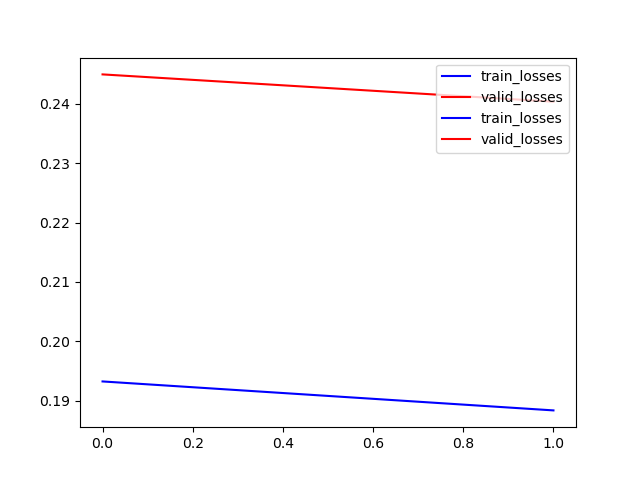
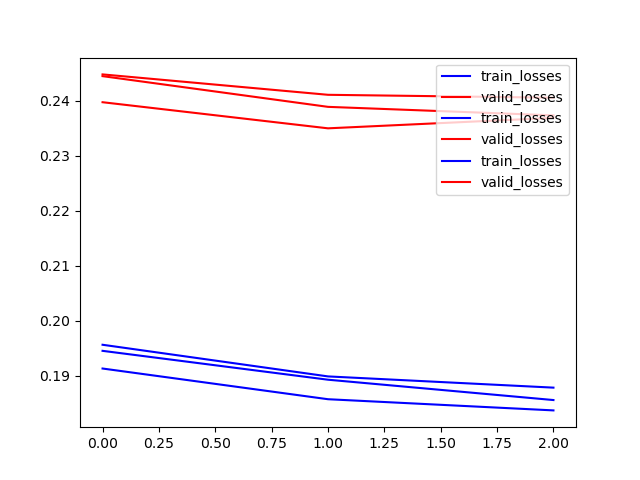
Plot 10 fold train val

diff --git a/src/trainer.py b/src/trainer.py
@@ -1,4 +1,6 @@
-import os		# Thư viện làm việc với đường dẫn và file trong python
+import os
+import matplotlib		# Thư viện làm việc với đường dẫn và file trong python
+matplotlib.use('AGG')
 import torch as T
 import numpy as np
 from torch.autograd import Variable		# Hàm khai báo các biến tensor và có thể thay đổi gradient của nó
@@ -10,7 +12,7 @@ from src.data_helper import shuffle_data
 class Trainer:
     def __init__(self, model, loss, optimizer, train_loader=None, test_loader=None, fold=1,
                  device=T.device("cuda" if T.cuda.is_available() else "cpu"), lr=0.0005, epochs=200, batch_size=64,
-                 n_repeats = 2, print_every=1, save_every=500, 
+                 n_repeats = 2, print_every=1, save_every=500,
                  save_dir="./trainned_models",
                  save_name="model.pt", verbose=True):
         self.model = model
@@ -83,19 +85,20 @@ class Trainer:
             print('Train_loss: ',losses)
             self.train_losses.append(losses)
             self.valid_losses.append(valid_loss)
-            self.save_train_valid_losses()
+            self.save_train_valid_losses(self.fold)
 
     def load_model_from_path(self, path):
         self.model.load_state_dict(T.load(path))
     
-    def save_train_losses(self):
+    def save_train_losses(self,i):
         plt.plot(self.train_losses) 
         out_dir = 'output/train_losses'
         if not os.path.exists(out_dir):
             os.makedirs(out_dir)
-        plt.savefig("{}/{}_{}".format(out_dir, self.model.name, 'train_losses.png'))
+        plt.savefig("{}/{}_{}".format(out_dir, self.model.name, 'train_losses_fold_'+str(i)+'.png'))
     
-    def save_train_valid_losses(self):
+    def save_train_valid_losses(self,i):
+        fig=plt.figure()
         plt.plot(self.train_losses,"-b",  label="train_losses") 
         plt.plot(self.valid_losses,"-r", label="valid_losses") 
         plt.legend(loc="upper right")
@@ -103,7 +106,7 @@ class Trainer:
         out_dir = 'output/train_valid_losses'
         if not os.path.exists(out_dir):
             os.makedirs(out_dir)
-        plt.savefig("{}/{}_{}".format(out_dir, self.model.name, 'train_valid_losses_erlu.png'))
+        fig.savefig("{}/{}_{}".format(out_dir, self.model.name, 'train_valid_losses_fold_'+str(i)+'.png'))
     
     def test(self):
         if len(self.test_loader['data']) == 0:

diff --git a/two_col_training.py b/two_col_training.py
@@ -63,6 +63,7 @@ def main():
             test_loader=valset_kfold,
             loss=args.loss,
             optimizer=args.optimizer,
+            fold=fold,
             epochs=args.epochs,
             lr=args.lr,
             batch_size=args.batch_size,
